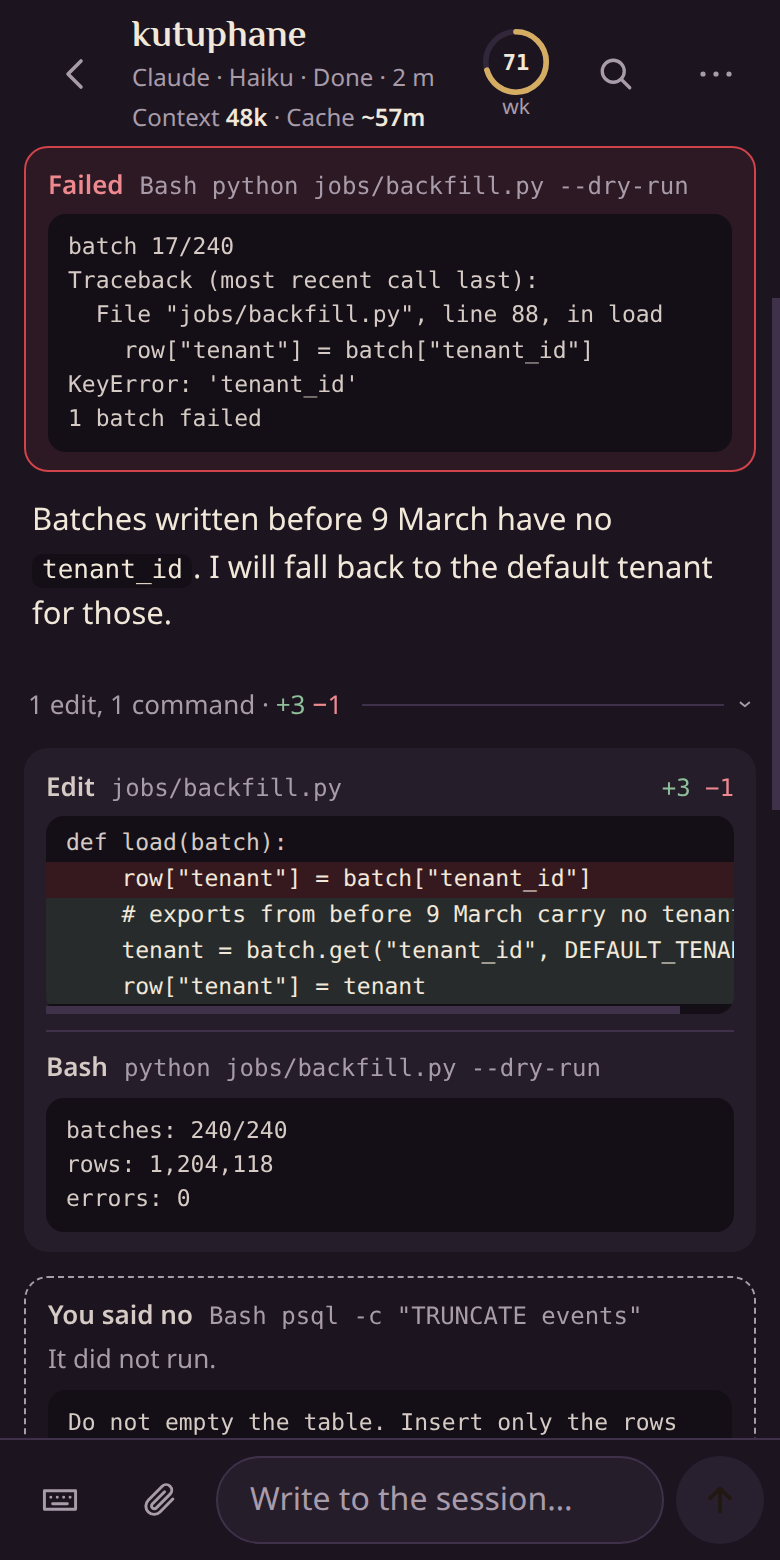
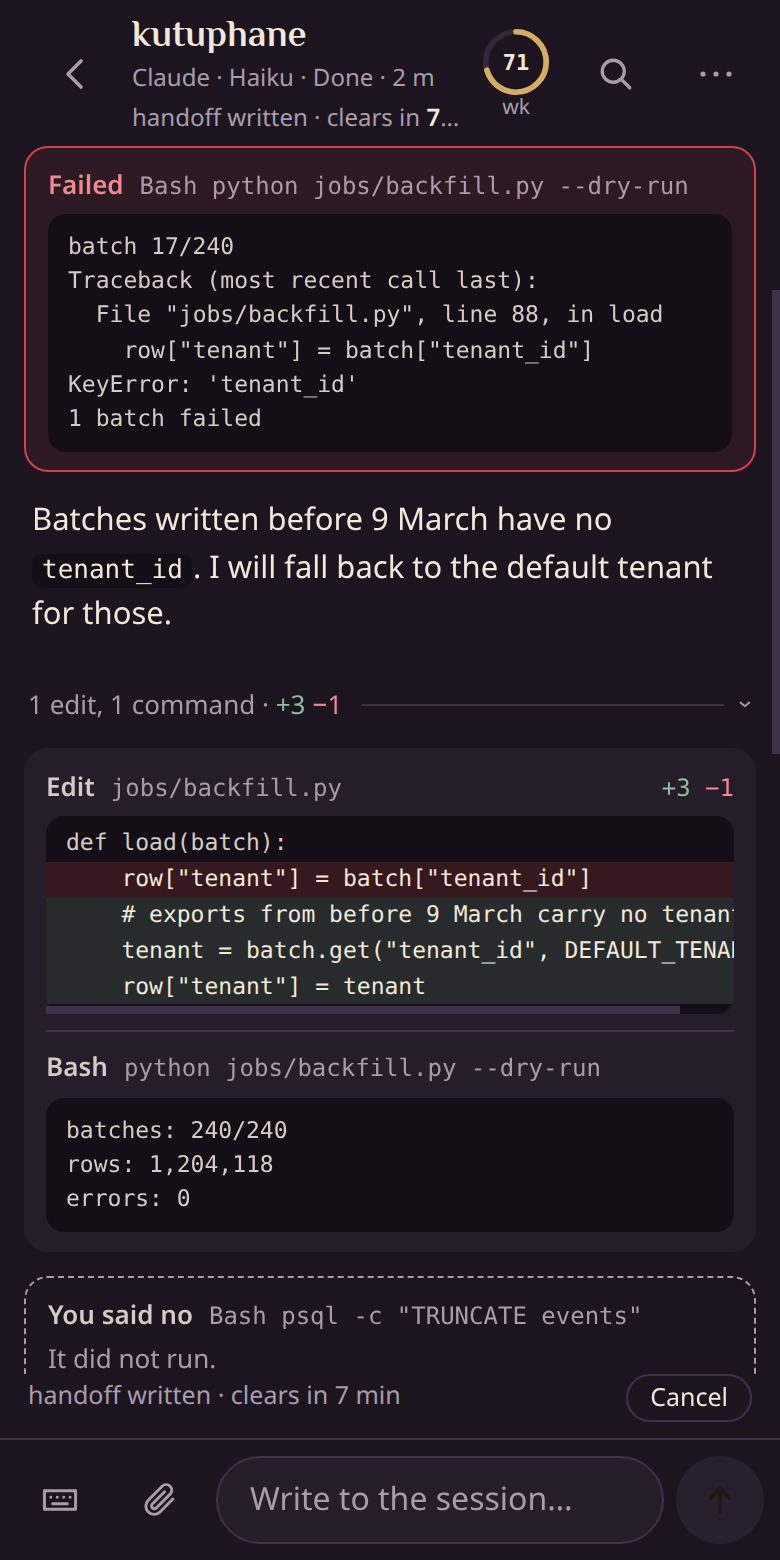
Document automatic handoff and what Ulak may type on its own

diff --git a/test_docs.py b/test_docs.py
@@ -69,7 +69,7 @@ def test_the_site_and_the_readme_say_the_same_day_and_the_readme_counts_the_code
     day = re.search(r"README on (\d+) November 2026", README)[1]
     assert f"on {day} November 2026" in (ROOT / "site/index.html").read_text()
     assert f"{day} Kasım 2026" in (ROOT / "site/tr/index.html").read_text()
-    files = ["app.py", "core.py", "chat.py", "herdr_client.py", *(f"web/{p.name}" for p in (ROOT / "web").iterdir() if p.suffix in (".js", ".css", ".html"))]
+    files = ["app.py", "core.py", "chat.py", "handoff.py", "herdr_client.py", *(f"web/{p.name}" for p in (ROOT / "web").iterdir() if p.suffix in (".js", ".css", ".html"))]
     lines = sum(len((ROOT / f).read_text().splitlines()) for f in files)
     said = int(re.search(r"about ([\d,]+) lines", README)[1].replace(",", ""))
     assert abs(lines - said) <= 250, f"the README says about {said} lines, the code has {lines}"
@@ -116,3 +116,26 @@ def test_the_readme_names_what_this_release_added():
     assert "card" in room and "cold" in room and "subagents" in room
     assert "from the card" in feature("Answer questions and menus.")
     assert "session record" in next(line for line in README.splitlines() if line.startswith("- **Your yes is bound"))
+
+
+def test_the_readme_lists_every_automatic_handoff_setting_and_no_other():
+    import handoff
+    read = set(handoff.settings({})) - {"warnings"}
+    config = section("Configuration")
+    assert set(re.findall(r"`auto_handoff\.([a-z_]+)`", config)) == read
+    block = json.loads(config.split("```json\n", 1)[1].split("```", 1)[0])
+    assert set(block["auto_handoff"]) <= read and handoff.settings(block) == handoff.settings({})  # the example is the defaults
+    assert f"`{handoff.WRITTEN}`" in config and f"`{handoff.REFUSED} <reason>`" in config
+    feature = next(line for line in README.splitlines() if line.startswith("- **Hand a conversation off before its cache runs cold.**"))
+    for said in ("Off by default", "Claude", "Cancel", f"{handoff.MIN_TOKENS:,}", "never answers an approval"):
+        assert said in feature, said
+
+
+def test_the_security_page_says_what_ulak_types_on_its_own():
+    import handoff
+    page = (ROOT / "SECURITY.md").read_text()
+    rule = next(p for p in page.split("\n\n") if p.startswith("**What Ulak types on its own"))
+    for said in ("off by default", "four fixed texts", "`/clear`", "`/rename", "never answers an approval", "sends no keys", "nothing an agent wrote", "empty", "idle",
+                 f"{handoff.MIN_TOKENS:,} tokens", f"{handoff.REASON_MAX} characters", "plain text", "as `ulak`", "Earlier conversations", "does not read the handoff note"):
+        assert said in rule, said
+    assert 'audit(pane, "auto-handoff"' in APP and "send_keys" not in APP.split("async def handoff_notify", 1)[1].split("\ndef read_audit", 1)[0]

diff --git a/app.py b/app.py
@@ -34,7 +34,7 @@ STATE = ROOT / ".state"
 
 
 def load_config():
-    """Optional local config (gitignored): .secrets/config.json. Keys: rules_file, quick_targets, quick_label, limit_files, allowed_hosts."""
+    """Optional local config (gitignored): .secrets/config.json. Keys: rules_file, quick_targets, quick_label, limit_files, allowed_hosts, auto_handoff."""
     try:
         return json.loads((ROOT / ".secrets/config.json").read_text())
     except (OSError, ValueError):

diff --git a/tools/shots.py b/tools/shots.py
@@ -118,6 +118,10 @@ def stills(phone, lang):
     phone.hold(0.4)
     phone.chrome.js("document.querySelector('#messages .act.bad').scrollIntoView({block: 'start'})")
     phone.shot(out / "reading.png")
+    phone.tap("#sMeta")
+    phone.until("document.querySelector('#sheet [role=switch]') !== null")
+    phone.shot(out / "handoff.png")
+    phone.tap("#sheet [data-close]")
     phone.home()
     phone.open("d1:p1")
     phone.shot(out / "approval.png")

diff --git a/README.md b/README.md
@@ -58,7 +58,7 @@ Read from each project's README on 27 November 2026, not from their code: "not d
 - **Pick HerdrChat** when you want a native app, a real terminal, subagent and workflow transcripts, an iPad layout, or several computers in one list.
 - **Pick ColliePWA** when you use tmux or zellij instead of Herdr, or want built-in voice input, themes and its durable-agent tools.
 - **Pick Ovis** when your phone cannot join a tailnet, or you want one app across desktop, phone and browser.
-- **Pick Ulak** when you want the phone to be able to answer and little else, every yes tied to the question you read, and code short enough to read before you trust it: about 5,600 lines of Python, JavaScript and CSS and four runtime dependencies.
+- **Pick Ulak** when you want the phone to be able to answer and little else, every yes tied to the question you read, and code short enough to read before you trust it: about 6,200 lines of Python, JavaScript and CSS and four runtime dependencies.
 
 What Ulak does not do: no terminal, one computer, one person, Herdr only. Conversations are fullest for Claude Code, where the transcript is read directly; other agents are read from the screen.
 
@@ -68,6 +68,7 @@ What Ulak does not do: no terminal, one computer, one person, Herdr only. Conver
   <img src="docs/screenshots/en/home.png" alt="Home: sessions grouped by what needs you, with usage limits on top" width="195">
   <img src="docs/screenshots/en/approval.png" alt="A session with an approval waiting under the conversation" width="195">
   <img src="docs/screenshots/en/reading.png" alt="A conversation: finished work folded into one line, a failed command left open, context and cache in the header" width="195">
+  <img src="docs/screenshots/en/handoff.png" alt="A session's meters with the automatic handoff switch: the note is written at minute 50 and the conversation cleared a few minutes later" width="195">
   <img src="docs/screenshots/en/changes.png" alt="Read-only view of the uncommitted changes in a session's folder" width="195">
   <img src="docs/screenshots/en/light.png" alt="The light theme" width="195">
   <br>
@@ -78,6 +79,7 @@ What Ulak does not do: no terminal, one computer, one person, Herdr only. Conver
 - **Read it like a chat.** Claude Code transcripts become messages with their headings, lists and tables, and code blocks you can copy with one tap. Subagents show as cards that say what they were asked and whether they are done.
 - **Work that went well folds away.** In a Claude Code conversation a turn's reads, edits and commands collapse into one line you can open, edits with their diff. Other agents keep no record Ulak can read this way, so theirs is shown as the text on their screen. A command that failed and a request you refused never fold; they stay in sight.
 - **Know how much room is left.** The header of a Claude conversation shows the context in use and how long the prompt cache still lives, both read from the transcript, how many subagents are still out, and a ring for the tightest usage limit. The same line is on the session's card on the home screen; a cache past its lifetime is called cold. Context and cache are Claude only; the Claude limit needs `limit_files`, Codex limits need no setup.
+- **Hand a conversation off before its cache runs cold.** Off by default; a switch on a Claude session's meter sheet turns it on for that session. Ten minutes before a one-hour prompt cache runs out, if the session is idle with an empty input box, nothing running and at least 80,000 tokens of context, Ulak asks the agent to write its handoff note. The agent may say no and give its reason; then nothing is cleared and the reason is in the notification list. Once the note is written, the card and the open session count down with Cancel beside the count. Unless you write to the session or tap Cancel within ten minutes, Ulak types `/clear`, names the conversation and asks the agent to carry on from the note. Every step is in the decision log under `ulak`. Ulak never answers an approval on its own, and a session that is working, asking or being typed into is left alone.
 - **See the pictures.** An image the conversation points at shows as a thumbnail and opens full screen. It is served under the same rules as any file in the session's folder; a picture from the web is never loaded.
 - **Answer questions and menus.** Single and multi-select questions, trust dialogs, and a small key bar (arrows, Esc, Enter, digits) when a prompt needs it. A short question with two to four plain options is answered from the card, without opening the session.
 - **Find what was said.** Search the open conversation and the folder's earlier ones for a word or phrase; a tap on a result opens the conversation at that message. Tool output is not searched.
@@ -149,7 +151,8 @@ Optional, in `.secrets/config.json` (untracked):
   "project_roots": ["~", "~/code"],
   "allowed_hosts": [],
   "min_work_seconds": 120,
-  "approval_timeout_minutes": 0
+  "approval_timeout_minutes": 0,
+  "auto_handoff": {"default": false, "min_tokens": 80000, "grace_seconds": 600}
 }
 ```
 
@@ -160,8 +163,12 @@ Optional, in `.secrets/config.json` (untracked):
 - `allowed_hosts`: extra host names Ulak answers to. `localhost`, `127.0.0.1`, names without a dot and `*.ts.net` already work; any other name gets 403.
 - `min_work_seconds`: a "finished" push is skipped when the turn took less than this (default 120).
 - `approval_timeout_minutes`: off by default (`0`), so an approval waits for you however long that takes. Set it and Ulak denies an approval nobody answered in that many minutes. It can only deny, only the exact prompt it has been timing, and each one is written to the decision log as a timeout. The clock restarts when Ulak restarts.
+- `auto_handoff.default`: `true` starts every Claude session with automatic handoff on; each can still be switched off on its meter sheet (default `false`).
+- `auto_handoff.min_tokens`: a conversation smaller than this is never asked for a note, because reading it cold costs less than cutting it (default 80000).
+- `auto_handoff.grace_seconds`: how long Ulak waits after the note is written before it clears the conversation (default 600, between 60 and 3600).
+- `auto_handoff.write_prompt`, `auto_handoff.continue_prompt`: your own wording for the two requests Ulak types, in any language: one line each, at most 2,000 characters, not starting with `/`. The first must tell the agent to end its answer with `ULAK-DEVIR: yazildi` when the note is written, or with `ULAK-DEVIR: kesme <reason>` when the conversation should not be cut. These two marks are how Ulak reads the answer and they do not change with the language. A text Ulak cannot use is replaced by the built-in one, and a line at startup says which.
 
-State (`.state/`: pins, notification history, the decision log) lives on the server, so every device sees the same view. The browser keeps only unsent drafts, the messages you sent until the conversation shows them, a copy of your pins, your quick replies, the chosen language and theme, and whether the idle group is open.
+State (`.state/`: pins, notification history, the decision log, where each session's automatic handoff stands) lives on the server, so every device sees the same view. The browser keeps only unsent drafts, the messages you sent until the conversation shows them, a copy of your pins, your quick replies, the chosen language and theme, and whether the idle group is open.
 
 ## Architecture
 
@@ -181,8 +188,9 @@ State (`.state/`: pins, notification history, the decision log) lives on the ser
 - `POST /api/sessions/{pane}/prompt`: send text (409 for a pane with no agent in it, as for `.../keys` and `/api/quick`). `POST /api/sessions/{pane}/upload`: raw file body (image, PDF or text), returns its server path. `GET /api/sessions/{pane}/file`: open a supported document inside that workspace. `POST /api/quick`: quick send to a configured pane (see Configuration). `GET/PUT /api/pins`: server-side pins, shared across devices.
 - `POST /api/sessions/{pane}/approve`: approve/always/deny, bound to the screen fingerprint (409 if it changed; destructive = two steps).
 - `POST /api/sessions/{pane}/choose`: pick a menu option (single/multi, trust dialog). `POST .../keys`: raw keys (Enter/approve keys refused on destructive prompts).
+- `PUT /api/sessions/{pane}/handoff`: turn automatic handoff on or off for one Claude session (`{on}`; 409 for any other tool). `POST .../handoff/cancel`: stop the handoff under way and leave the session as it is (409 when none is under way). A Claude session's card carries `handoff: {on, phase, due}`.
 - `POST /api/sessions/{pane}/close`: two-step close. `GET /api/projects`, `POST /api/sessions`: start a new session.
-- `GET /api/audit`: the decision log. `GET /api/events`: SSE (`ready`, `session`, `removed`, `receipt`). `POST /api/presence`: report whether a browser tab is visible. `GET /api/limits`: `{providers: [{id, label, updated, items: [{label, used, resets_at}]}]}`. `/api/push/*`: public key, subscribe, known (with the last delivery and the last refusal), lang, test (one notification to the asking device). `GET /api/config`: the quick-send label and the approval timeout. `GET /api/notifications`: the history of push notifications.
+- `GET /api/audit`: the decision log. `GET /api/events`: SSE (`ready`, `session`, `removed`, `receipt`). `POST /api/presence`: report whether a browser tab is visible. `GET /api/limits`: `{providers: [{id, label, updated, items: [{label, used, resets_at}]}]}`. `/api/push/*`: public key, subscribe, known (with the last delivery and the last refusal), lang, test (one notification to the asking device). `GET /api/config`: the quick-send label, the approval timeout, and the token threshold and wait of automatic handoff. `GET /api/notifications`: the history of push notifications.
 
 ## Tests
 

diff --git a/SECURITY.md b/SECURITY.md
@@ -29,6 +29,8 @@ Ulak listens on `127.0.0.1:8765` and nowhere else. The phone reaches it through 
 
 **The timeout: off unless you turn it on.** With `approval_timeout_minutes` set, an approval nobody answered in that time is denied. The timeout can only deny, only the exact prompt it has been timing, and it writes a log entry. It never approves.
 
+**What Ulak types on its own: automatic handoff, off by default.** Everything else on this page is Ulak passing on what you tapped. With automatic handoff switched on for a Claude session (or `auto_handoff.default` set), Ulak types into that session without you, and only four fixed texts: the request to write a handoff note, `/clear`, `/rename <folder> devir <HH:MM>`, and the request to carry on. The two requests are the built-in ones or your own from the settings; nothing an agent wrote, nothing a screen showed and nothing from a session record ever becomes part of what is typed. Ulak asks for the note only when the session is idle with no question up, no call or subagent still out and an empty input box, the conversation holds at least 80,000 tokens, and a one-hour prompt cache is in its last ten minutes. A measure it cannot read counts as a reason not to ask. The agent answers with one of two marks on its last line; a mark anywhere else, or inside Ulak's own request, does not count. A refusal's reason is cut to one line of 200 characters and shown as plain text in the notification and the lists; it is never typed or run. After a written note Ulak waits (`grace_seconds`) and reads the session again before it clears: if you wrote to the session, it started working, a question is up, the box is not empty, the conversation is no longer the one that was asked, or you tapped Cancel, nothing is cleared. Before each of the two lines that follow it checks once more that the session is idle with an empty box and no question up; if it is not, Ulak stops there and tells you at which step. Ulak never answers an approval on its own: a prompt that comes up while the note is being written reaches you like any other. This path sends no keys at all, only whole lines of text. Every step is written to the decision log as `ulak`, with the text that was typed. The cleared conversation is not deleted; it stays in the session's record and can be read under Earlier conversations. What is accepted: Ulak does not read the handoff note. How well the next conversation picks the work up depends on what the agent wrote, and the agent carries on under its own permission mode, as it would for a line you typed.
+
 **Read-only views stay read-only.** The agent screen, the changes view, the search and the slash-command list are separate endpoints that send no keys. The search takes a word or phrase and never a path: it reads only the open conversation's record and the earlier ones of the same folder. The changes view runs `git status` and `git diff` in the session's own folder with external diff tools, text conversion, filesystem monitors and the filters in the repository's own configuration disabled, and without looking inside submodules; filters from your global git configuration still run. The phone cannot name a path. The file endpoint serves a short list of document types, only from the session's folder or from Ulak's own upload folder. Hidden files and folders inside the session's folder (names starting with a dot, where tools keep their keys) are not served, also when a link points at them. A session in your home folder can still serve any visible document of those types under it.
 
 **The page runs only its own code.** The app is sent with a Content Security Policy: scripts, styles, connections and workers from Ulak's own address only, no plugins, no forms posting elsewhere, no framing by another page. What an agent writes is escaped before it is drawn; the policy is the second wall behind that, so text that did slip through as markup could not load a script or call another server. Inline styles are allowed, because the app sets a few itself.
@@ -54,7 +56,7 @@ Ulak listens on `127.0.0.1:8765` and nowhere else. The phone reaches it through 
 Everything stays on the computer that runs Ulak, in two untracked folders next to the code:
 
 - `.secrets/`: the Web Push private key, push subscriptions (each with the time a notification last reached it or last failed), `config.json`.
-- `.state/`: pins, notification history, the decision log, uploads (removed once older than a week, at the next upload or restart).
+- `.state/`: pins, notification history, the decision log, where each session's automatic handoff stands (`handoff.json`), uploads (removed once older than a week, at the next upload or restart).
 
 The browser keeps unsent drafts, the messages you sent until the conversation shows them, your pins, your quick replies, the chosen language and theme, and whether the idle group is open, nothing else.
 
